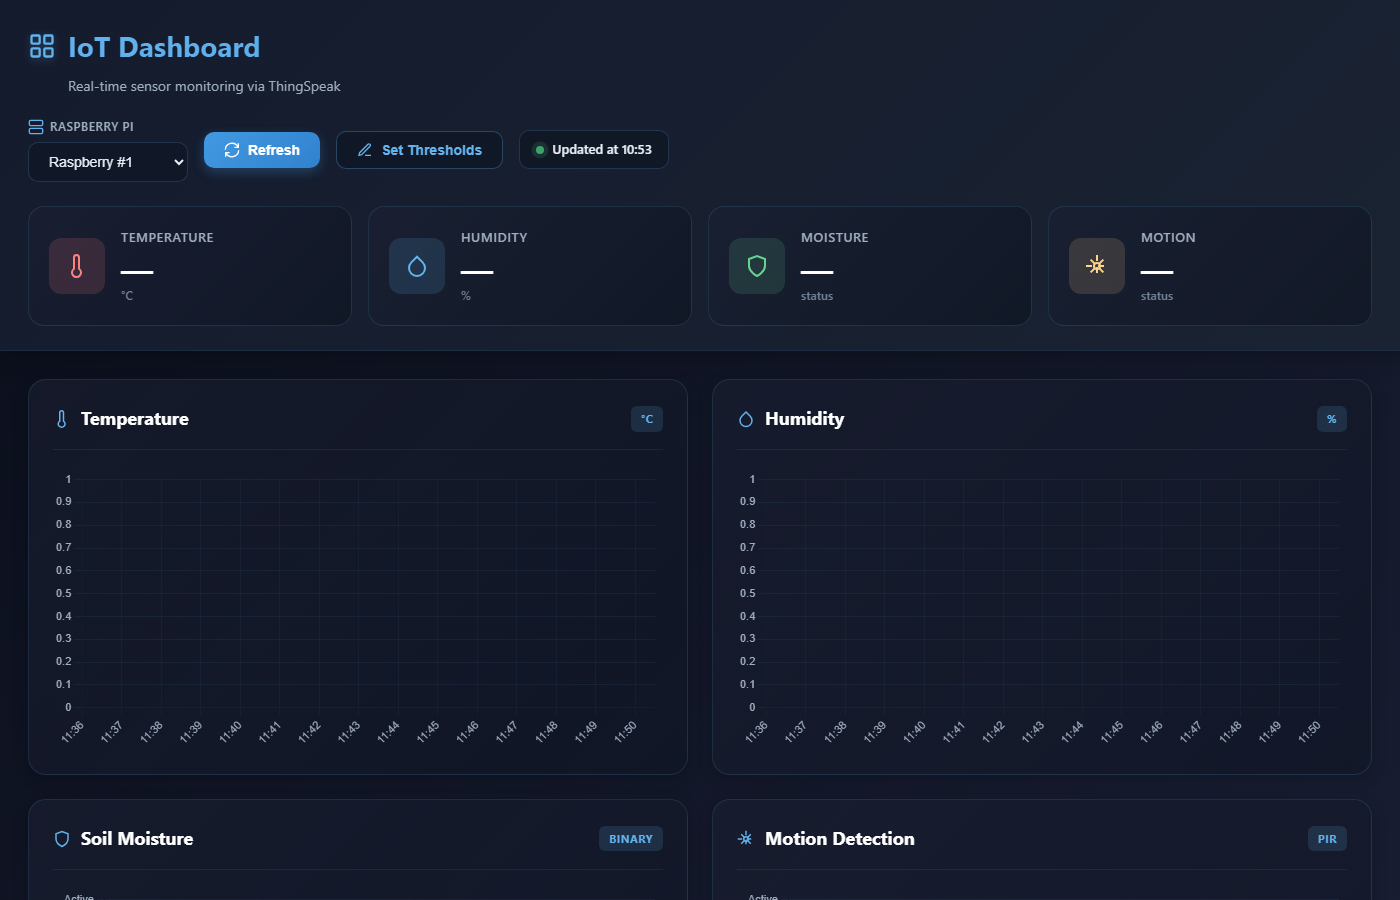
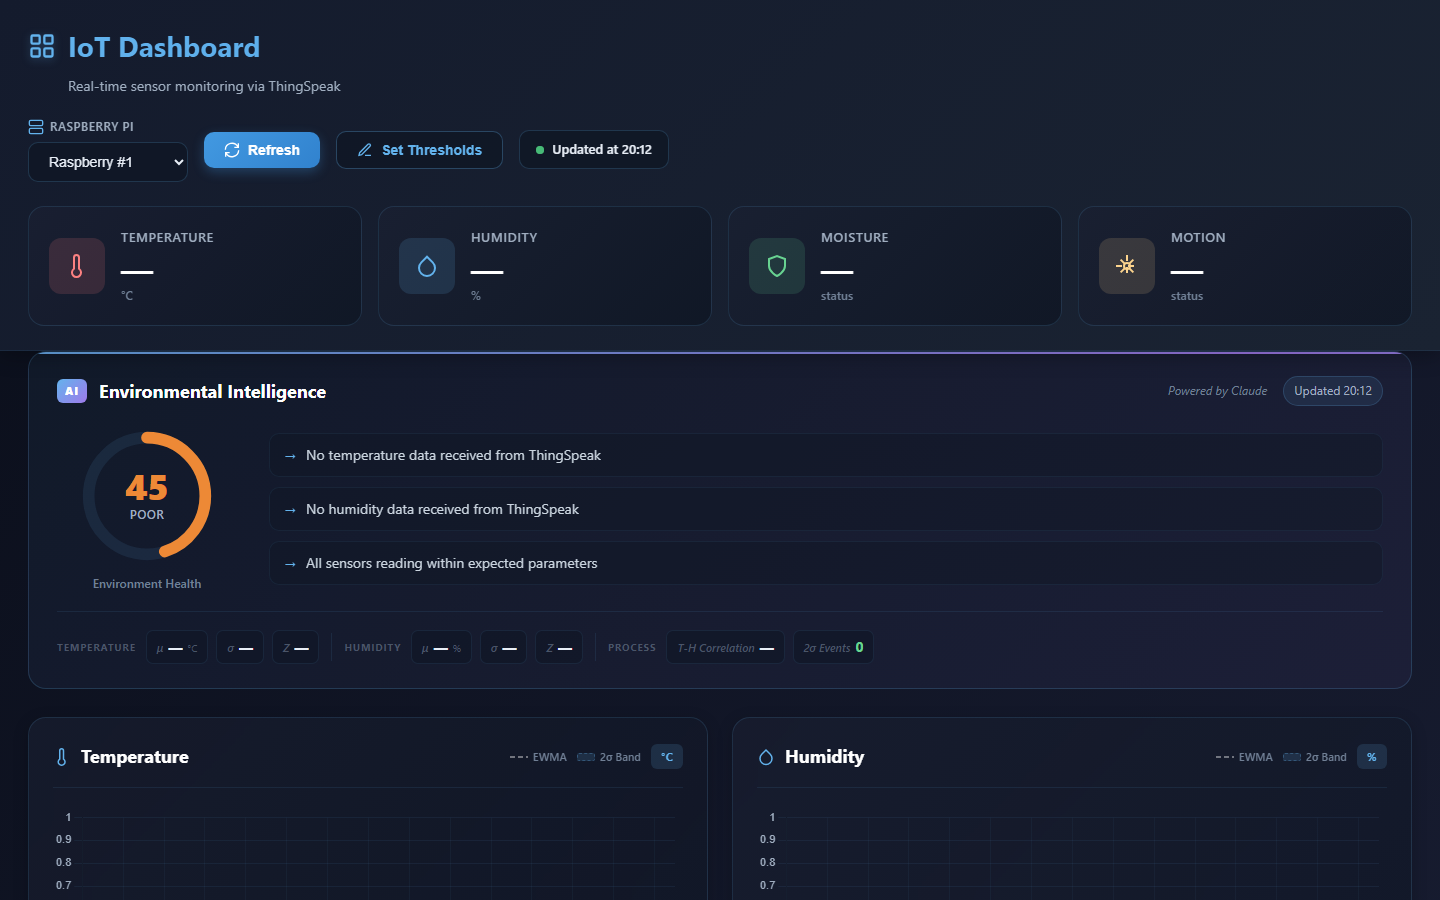
Update screenshot and README to reflect SPC engine and AI panel

diff --git a/README.md b/README.md
@@ -19,13 +19,32 @@
 
 ## 🚀 Features
 
-- 📡 **Live ThingSpeak Integration** — Continuously polls real sensor feeds (temperature, humidity, soil moisture, PIR/motion)
-- 📊 **Interactive Charts** — Time-series visualizations powered by Chart.js
-- ⚠ **Configurable Thresholds** — Set minimum limits per metric via an in-dashboard modal
-- 📧 **Automated Email Alerts** — SendGrid dynamic templates deliver structured breach notifications
-- 🔇 **Alert Cooldown** — Rate-limiting prevents repeated notification spam
-- 💾 **Local Persistence** — Thresholds and recipient settings saved across browser sessions
-- 🔒 **Secrets Stay Server-Side** — API keys never touch the browser
+**Data Pipeline**
+- 📡 **Live ThingSpeak Integration** — Continuously polls 4 sensor channels (temperature, humidity, soil moisture, PIR/motion)
+- 📊 **Interactive Charts** — Time-series visualizations with Chart.js, auto-refreshing every 30 seconds
+- ↑↓ **Trend Indicators** — Per-sensor directional arrows on every metric card
+
+**Statistical Process Control Engine**
+- 〜 **EWMA Trend Lines** — Exponentially Weighted Moving Average (λ=0.3) overlaid on temperature and humidity charts, smoothing sensor noise to reveal real trends
+- 📉 **Rolling 2σ Control Bands** — Auto-computed upper and lower control limits drawn as shaded regions; readings outside the band are statistically anomalous
+- 🔢 **Live Z-Score Detection** — Every reading is scored against its rolling mean and standard deviation; |Z| > 2 triggers a warning, |Z| > 3 is critical
+- 🔗 **Cross-Sensor Correlation** — Real-time Pearson correlation between temperature and humidity; a sudden breakdown flags environmental events or sensor faults
+- 📐 **Stats Strip** — Rolling μ, σ, Z-score per sensor, T-H correlation, and 2σ event counter — all live, all color-coded
+
+**Intelligence Panel**
+- 🧠 **Environment Health Score** — 0–100 score weighted across all sensors, Z-score penalties, and correlation state
+- ⏱ **Predictive Breach Warning** — Linear regression on recent readings estimates time-to-threshold before a breach occurs
+- 💬 **Contextual Observations** — 3 auto-generated insights per refresh, statistically contextualised (e.g. *"Temperature is 2.8σ below rolling mean"*)
+
+**Alerting**
+- 📧 **Automated Email Alerts** — SendGrid dynamic templates fire when readings breach configured thresholds
+- 🔇 **Alert Cooldown** — Rate-limiting prevents notification spam during sustained breaches
+- 🔔 **Toast Notifications** — In-dashboard feedback replaces browser alert dialogs
+
+**Infrastructure**
+- 🔒 **Secrets Stay Server-Side** — API keys handled by Node.js/Express, never exposed to the client
+- 💾 **Local Persistence** — Thresholds and recipient settings survive browser sessions
+- 🌐 **Deployed on Vercel** — Serverless API functions + static frontend
 
 ---
 
@@ -34,10 +53,11 @@
 | Layer | Technology |
 |---|---|
 | Frontend | HTML, CSS, JavaScript, Chart.js |
-| Backend | Node.js, Express |
-| Email Provider | SendGrid (`@sendgrid/mail`) |
+| Analytics | Custom SPC engine — EWMA, Z-scores, Pearson correlation, linear regression |
+| Backend | Node.js, Express (local) + Vercel Serverless Functions (production) |
+| Email | SendGrid (`@sendgrid/mail`) with dynamic templates |
 | Data Source | ThingSpeak REST API |
-| Config | dotenv |
+| Deployment | Vercel |
 
 ---
 
@@ -48,13 +68,15 @@ ThingSpeak API
       │
       ▼
   Frontend (index.html + app.js)
-  ├── Fetches & normalizes multi-channel feed data
-  ├── Renders charts and metric cards via Chart.js
-  ├── Evaluates threshold breaches on each refresh cycle
-  └── POSTs alert payload to backend on breach
+  ├── Fetches & normalizes 4-channel sensor feeds
+  ├── Renders Chart.js time-series with EWMA + 2σ control bands
+  ├── SPC Engine: rolling stats → Z-scores → Pearson correlation
+  ├── Intelligence Engine: health score → breach prediction → observations
+  ├── Threshold breach detector → POST /api/send-alert
+  └── Trend arrows, countdown timer, toast notifications
       │
       ▼
-  Backend (server.js — Express)
+  Vercel Serverless Function (/api/send-alert)
   ├── Validates payload and recipient email
   └── Sends email via SendGrid Dynamic Template
       │
@@ -69,15 +91,17 @@ ThingSpeak API
 ```
 iot-threshold-email-alert-dashboard/
 │
-├── index.html                    # Dashboard UI and threshold modal
-├── app.js                        # Frontend logic: ThingSpeak fetch, threshold checks, alert calls
-├── server.js                     # Express server and /api/send-alert endpoint
+├── index.html                    # Dashboard UI, AI panel, threshold modal
+├── style.css                     # All styles including SPC and AI panel
+├── app.js                        # SPC engine, intelligence engine, charts, alerts
+├── server.js                     # Local Express server (dev only)
+├── api/
+│   └── send-alert.js             # Vercel serverless function — email delivery
 ├── tests/
-│   └── trigger-email.test.js     # Script to trigger and verify a real email alert
+│   └── trigger-email.test.js     # Script to trigger a real alert end-to-end
 ├── assets/
 │   └── screenshot.png            # Dashboard preview
-├── .env                          # Environment variables (not committed)
-└── README.md
+└── .env                          # Secrets (not committed)
 ```
 
 ---
@@ -187,12 +211,11 @@ npm run test:email
 ## 🔮 Future Improvements
 
 - [ ] Per-user authentication and per-device alert profiles
-- [ ] Retry/backoff logic and delivery status logging
-- [ ] Deployment config for Render / Railway / Vercel
-- [ ] Alert history UI with acknowledgment workflow
-- [ ] Unit and integration tests for threshold and cooldown logic
-- [ ] Configurable channel/metric mappings from the UI
+- [ ] Alert history log with acknowledgment workflow
+- [ ] Smart AI alert emails — pipe health score and observations into SendGrid template
 - [ ] Webhook, SMS, and Telegram notification channels
+- [ ] Unit and integration tests for SPC engine and threshold logic
+- [ ] Configurable EWMA decay factor (λ) and control band sigma level from UI
 
 ---
 
